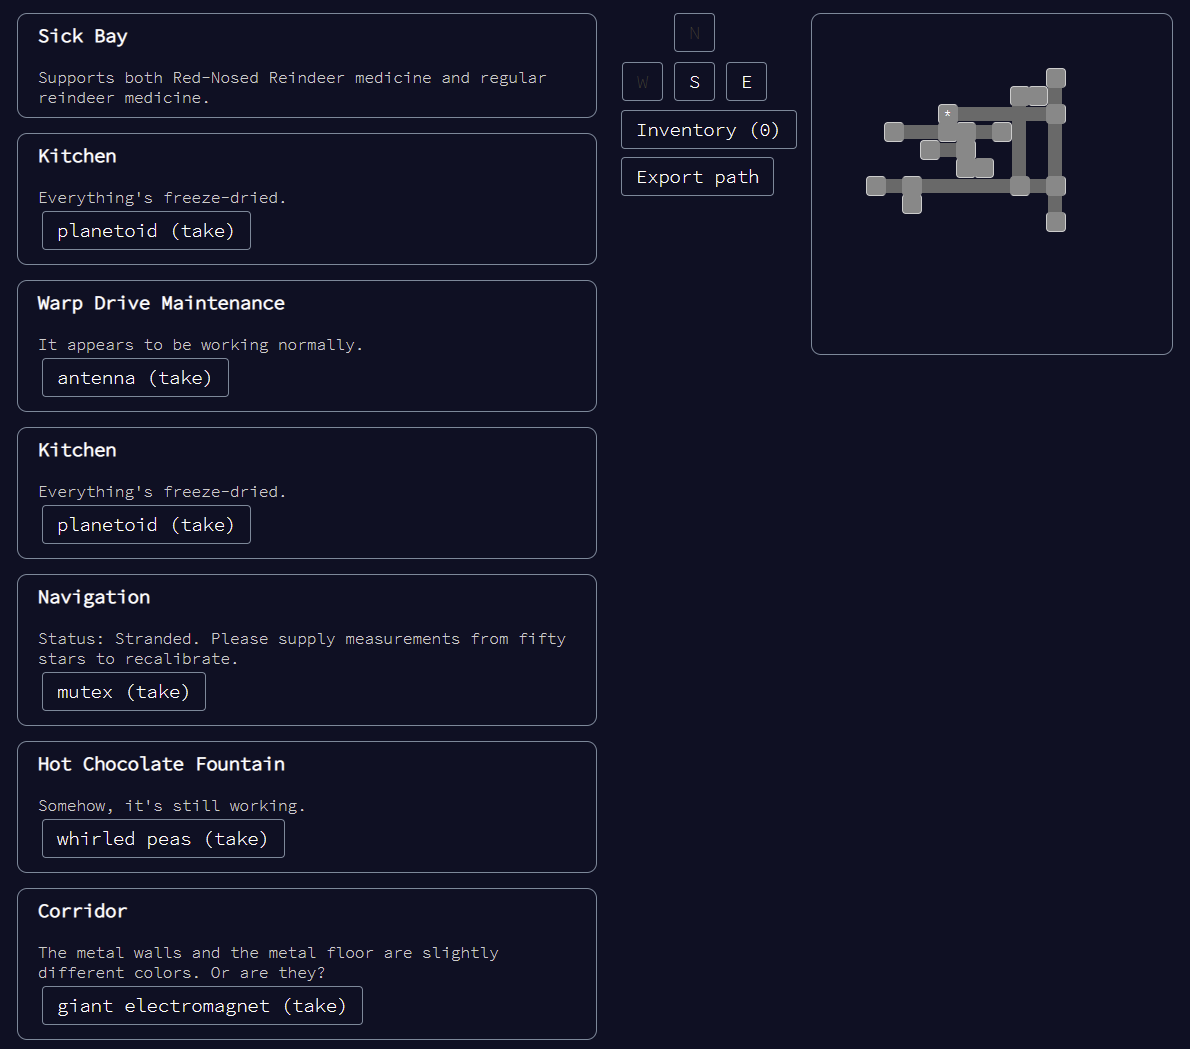
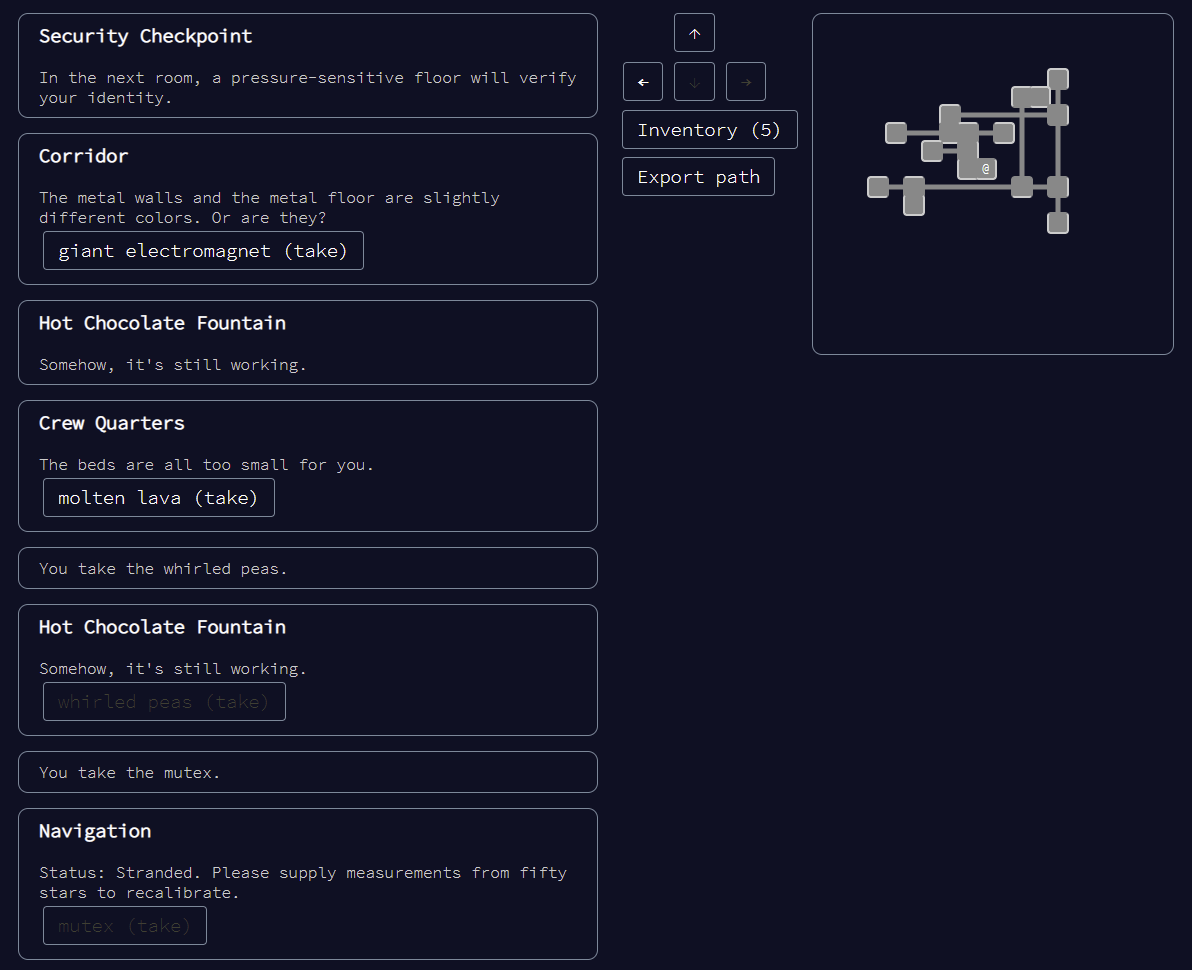
added keyboard movement and updated screenshot

diff --git a/2019/day25/script.js b/2019/day25/script.js
@@ -29,7 +29,7 @@ const drawRooms = rooms => {
                     left: x*18+'px',
                     top: y*18+'px'
                 }}).addClass(roomClasses(map[y][x]));
-                if (map[y][x].name == loc) el.html('*');
+                if (map[y][x].name == loc) el.html('@');
                 mapEl.append(el)
             }
         }
@@ -41,7 +41,7 @@ const drawRooms = rooms => {
                 let p1 = roomPos(r.id);
                 if (r[k] > r.id) {
                     let p2 = roomPos(r[k]);
-                    if (p2) mapEl.append('<svg><polyline points="'+ (p1.x*18-11) + ',' + p1.y*18 +' '+ (p2.x*18-11) + ',' + p2.y*18 +'"></polyline></svg>')
+                    if (p2) mapEl.append('<svg><polyline points="'+ (p1.x*18-9) + ',' + (p1.y*18+1) +' '+ (p2.x*18-9) + ',' + (p2.y*18+1) +'"></polyline></svg>')
                 }
             })
         })
@@ -155,6 +155,19 @@ const command = com => {
 const initGUI = () => {
     $('[data-action=direct]').map((b, el) => $(el).on('click', e => command($(el).attr('id'))))
     $('#export').on('click', e => console.log('path so far', commands))
+    let keyMap = {
+        ArrowLeft: 'west',
+        ArrowRight: 'east',
+        ArrowUp: 'north',
+        ArrowDown: 'south'
+    };
+
+    window.addEventListener('keyup', e => {
+        if (keyMap[e.key] !== undefined) $('#'+keyMap[e.key]).click();
+    });
+    window.addEventListener('keydown', e => {
+        if (keyMap[e.key] !== undefined) e.preventDefault();
+    });
 }
 
 const generateVariantsCommands = baseCommands => {

diff --git a/2019/day25/index.html b/2019/day25/index.html
@@ -72,7 +72,7 @@
             height:18px;
             width:18px;
             background-color:#888;
-            border: 1px solid #ccc;
+            border: 2px solid #ccc;
             color:#fff;
             font-size:12px;
             text-align: center;
@@ -85,9 +85,9 @@
         .mappoint.west {border-left-color: #888}
         polyline {
             fill: none;
-            stroke-width: 14;
+            stroke-width: 5;
             stroke-linecap: round;
-            stroke: dimgray;
+            stroke: #888;
         }
         svg {
             position:absolute;
@@ -120,7 +120,7 @@
         </div>
     </div>
     <div class="controls">
-        <table><tr><td></td><td><button data-action="direct" id="north">N</button></td><td></td></tr><tr><td><button data-action="direct" id="west">W</button></td><td><button data-action="direct" id="south">S</button></td><td><button data-action="direct" id="east">E</button></td></tr></table>
+        <table><tr><td></td><td><button data-action="direct" id="north">↑</button></td><td></td></tr><tr><td><button data-action="direct" id="west">←</button></td><td><button data-action="direct" id="south">↓</button></td><td><button data-action="direct" id="east">→</button></td></tr></table>
         <input type="text" id="command"></input>
         <button id="send">SEND</button>
         <button data-action="direct" id="inv">Inventory</button><br>
